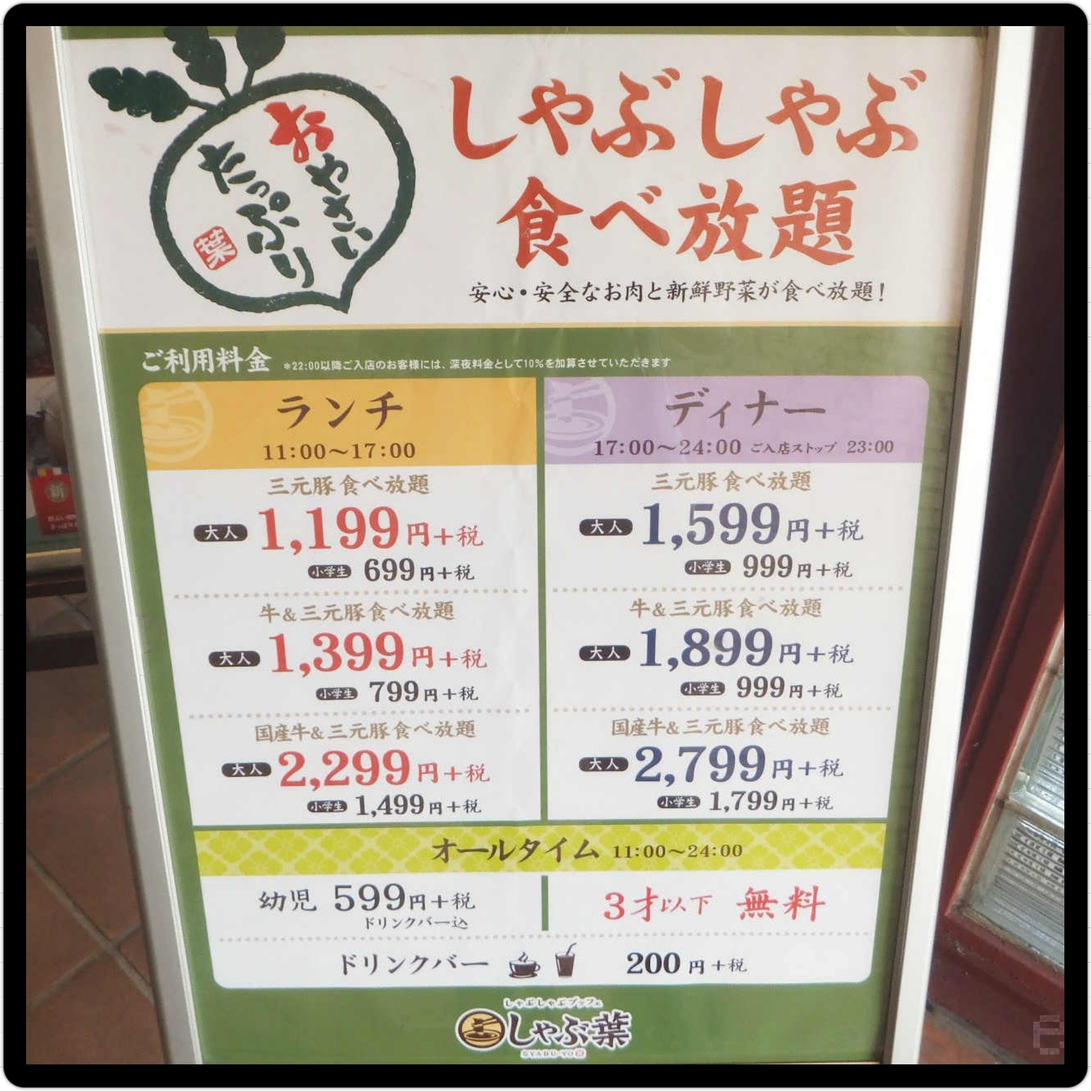
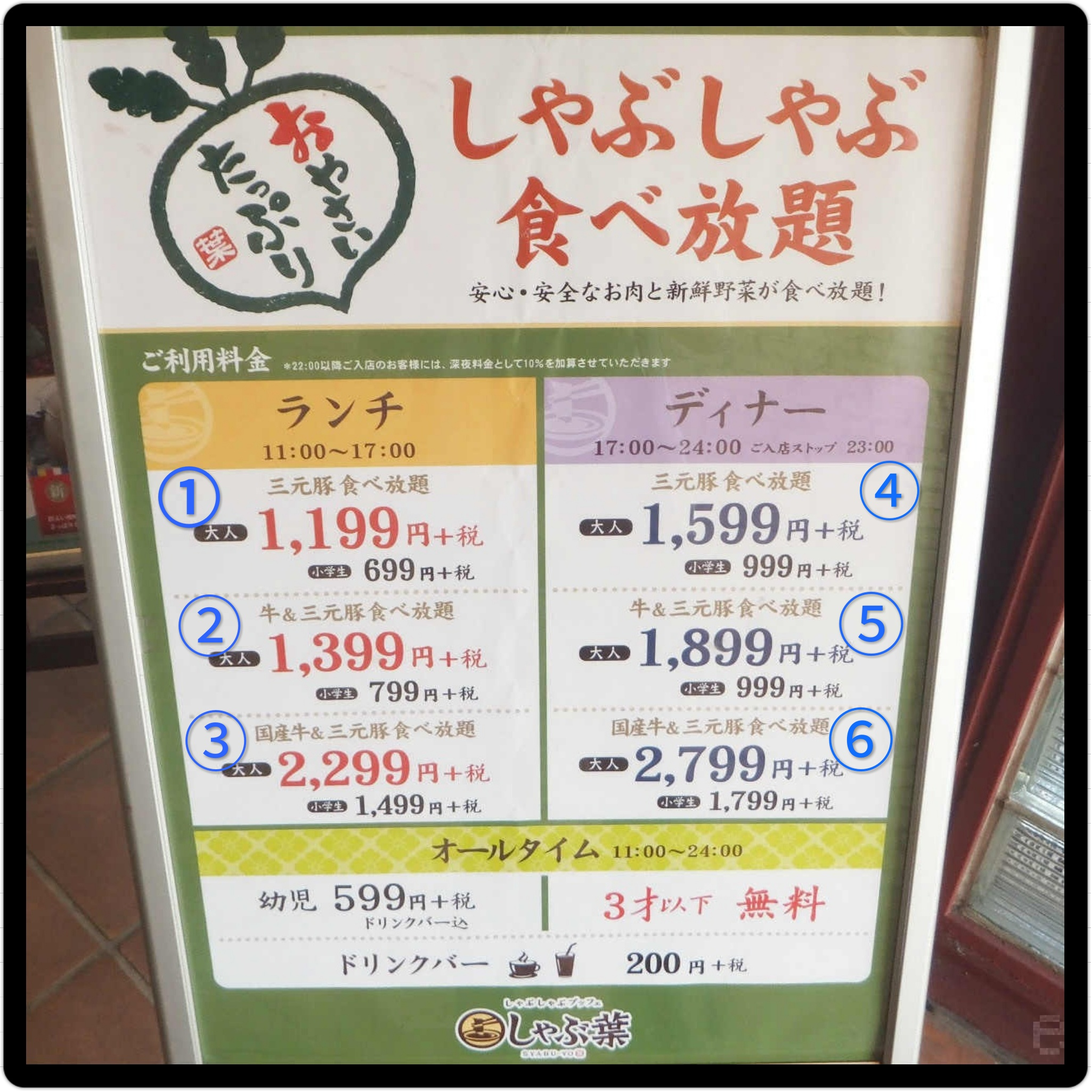
shabuyo3

diff --git a/index.html b/index.html
@@ -405,8 +405,9 @@
 	  <p><div style="left: 0; width: 100%; height: 0; position: relative; padding-bottom: 75.0019%;"><iframe src="https://www.google.com/maps/embed/v1/place?key=AIzaSyC71-uPMFmOS0BZjuWWgWCHrZDV_63lYJY&q=%E5%8F%88%E5%8F%A3%E6%A9%8B%EF%BC%88%E3%83%90%E3%82%B9%EF%BC%89&center=35.50225,139.6082&zoom=15" style="border: 0; top: 0; left: 0; width: 100%; height: 100%; position: absolute;" allowfullscreen allow="autoplay; encrypted-media"></iframe></div></p>
 	  <hr style="border-top: 3px double;">
 	  <p><img width="100%" src="img/shabuyo2.jpg"></p>
-	  <p align="left">This is the menu I recommend.</p>
-	  <p align="left"></p>
+	  <p align="left">This is the menu I recommend. From ① to ③, these are menu for lunch. ① is only pork shabu-shabu. ② is both beef and pork shabu-shabu. ③ is both japanese beef and pork shabu-shabu.</p>
+	  <p align="left">From ④ to ⑥, these are menu for dinner. ④ is only pork shabu-shabu. ⑤ is both beef and pork shabu-shabu. ⑥ is both japanese beef and pork shabu-shabu.</p>
+ 	  <p align="left"></p>
 	  <p align="left"></p>
 	  <p align="left"></p>
 	  <p align="left"></p>
